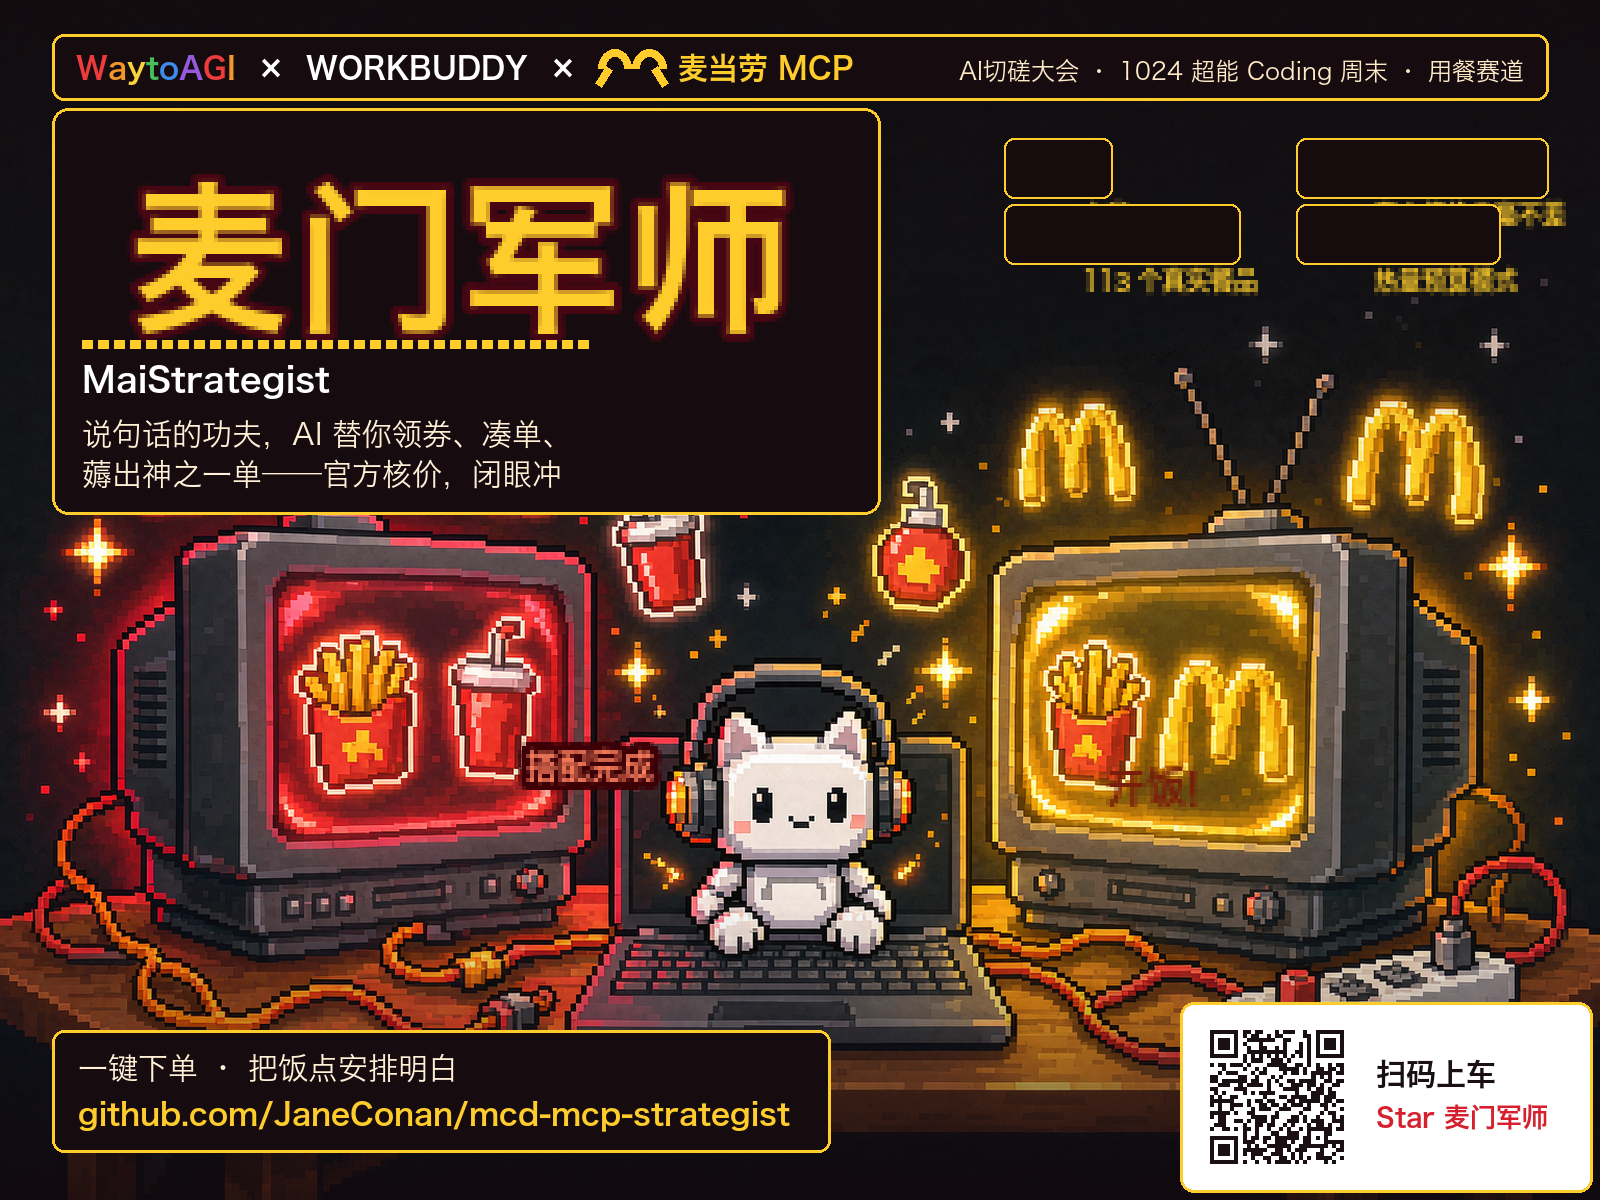
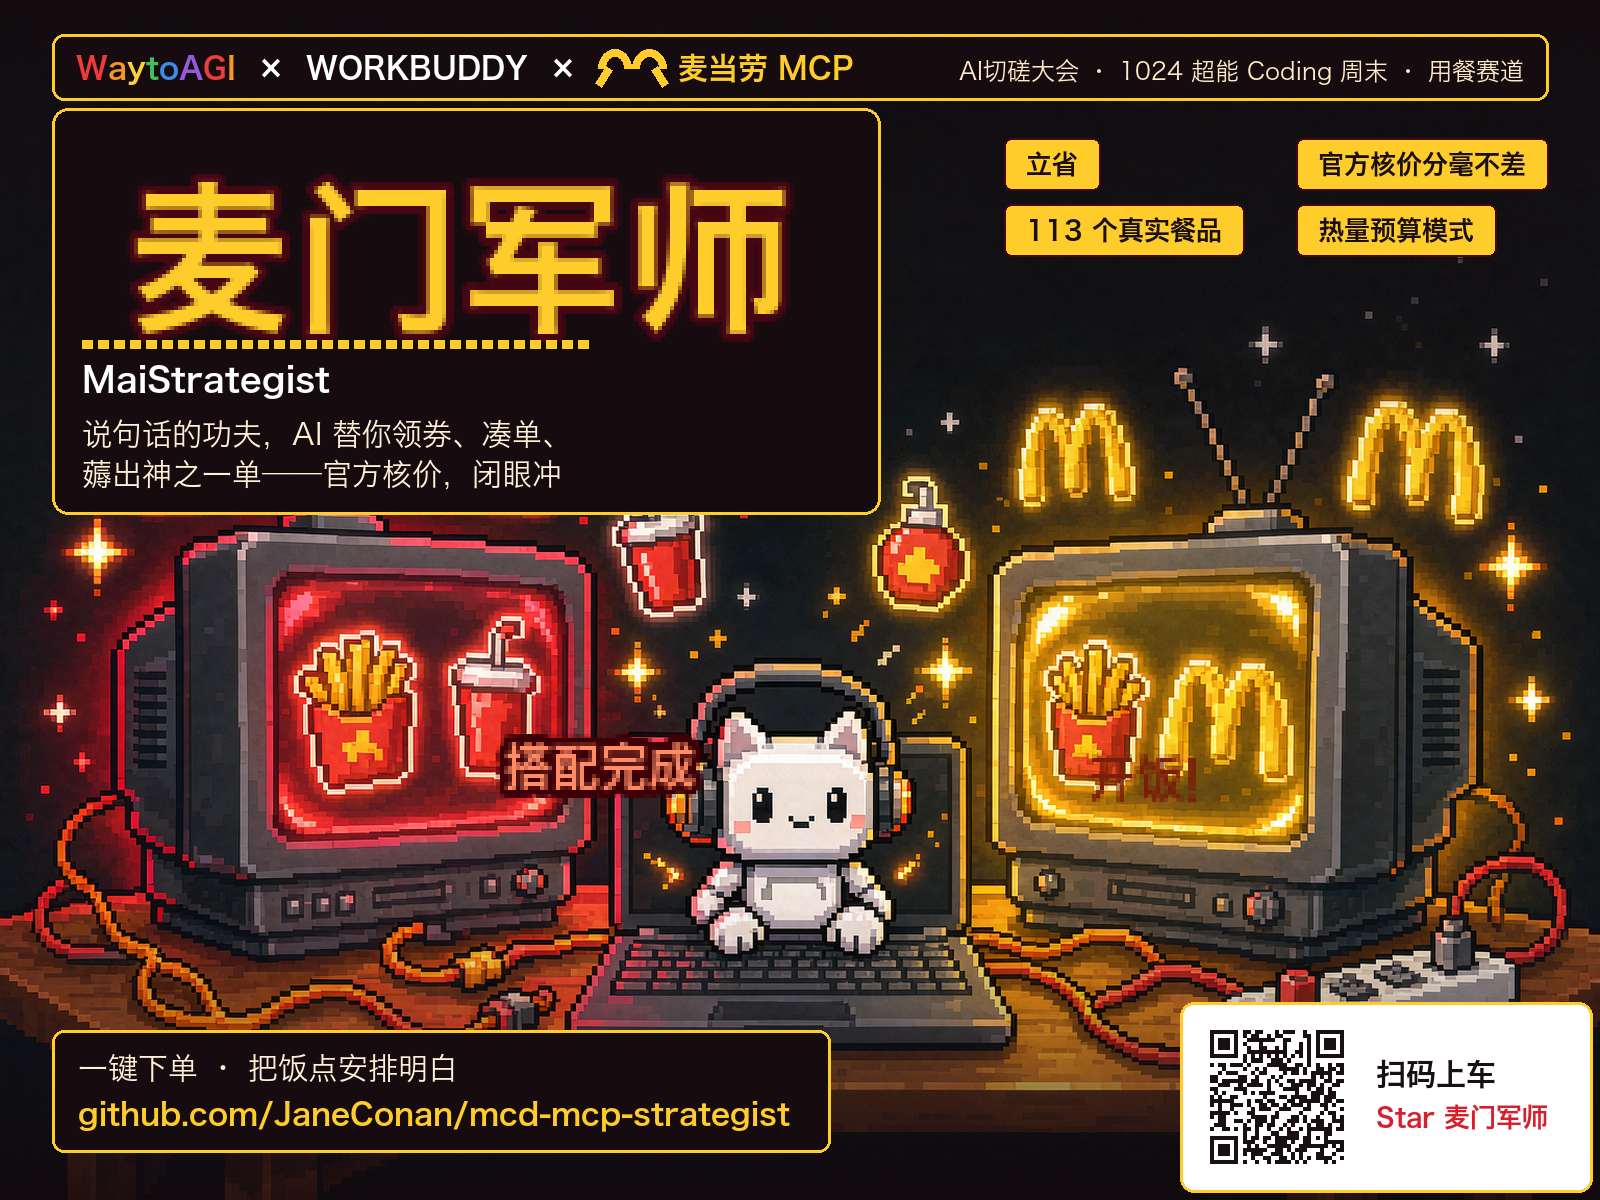
fix: 右上战绩改麦当劳黄签(金底红框+清晰粗体)——修复 6px 像素字笔画糊死
- 小字号(<=26px)禁用 NEAREST 像素字, 笔画会糊; 黄签用常规粗体
- CRT 屏幕字 34/40px 提至 48px, 保证像素笔画可分
- 溢出检测 + QR 双格式解码复验通过

diff --git a/scripts/make_cover.py b/scripts/make_cover.py
@@ -102,19 +102,16 @@ def draw_m_logo(d, x, y, s=34, color=GOLD):
            fill=color, width=wdt)
 
 
-def pixel_pill(img, x, y, text, final_size, pad_x=30, pad_y=14):
-    """深色金边 HUD 小面板 + 像素字。"""
+def stat_pill(img, x, y, text, size=26):
+    """麦当劳黄标签：金底 + 深红描边 + 墨色清晰粗体（小字号不用像素字，避免糊）。"""
     d = ImageDraw.Draw(img)
-    small = final_size // PIX
-    f = font(small, True)
-    tmp = Image.new("RGBA", (10, 10))
-    td = ImageDraw.Draw(tmp)
-    bbox = td.textbbox((0, 0), text, font=f)
+    f = font(size, True)
+    bbox = d.textbbox((0, 0), text, font=f)
     tw, th = bbox[2] - bbox[0], bbox[3] - bbox[1]
-    bw, bh = tw * PIX + pad_x * 2, th * PIX + pad_y * 2
-    d.rounded_rectangle([x, y, x + bw, y + bh], radius=10,
-                        fill=(22, 12, 14, 225), outline=(255, 205, 43, 200), width=2)
-    pixel_text(img, (x + pad_x, y + pad_y - 2), text, final_size, GOLD)
+    bw, bh = tw + 44, th + 26
+    d.rounded_rectangle([x, y, x + bw, y + bh], radius=8, fill=GOLD,
+                        outline=RED_DARK, width=2)
+    d.text((x + 22 - bbox[0], y + 13 - bbox[1]), text, font=f, fill=INK)
     return x + bw, y + bh
 
 
@@ -181,18 +178,18 @@ def main():
     d.text((82, 458), t2, font=f_tag, fill=CREAM)
     fit("标语2", d.textbbox((82, 458), t2, font=f_tag), tp)
 
-    # ============ 战绩胶囊（右上 2x2 HUD 面板） ============
+    # ============ 战绩标签（右上 2x2 麦当劳黄签） ============
     stats = ["立省", "官方核价分毫不差", "113 个真实餐品", "热量预算模式"]
     for i, t in enumerate(stats):
         col, row = i % 2, i // 2
-        ex, ey = pixel_pill(bg, 1004 + col * 292, 138 + row * 66, t, 26)
+        ex, ey = stat_pill(bg, 1004 + col * 292, 138 + row * 66, t)
         if ex > W - 8 or ey > H - 8:
-            ISSUES.append("胶囊%d 超出画布: (%d,%d)" % (i, ex, ey))
+            ISSUES.append("标签%d 超出画布: (%d,%d)" % (i, ex, ey))
 
-    # ============ CRT 屏幕叠字 ============
-    pixel_text(bg, (470, 690), "搭配完成", 34, (255, 130, 95),
+    # ============ CRT 屏幕叠字（48px 起步，保证笔画清晰） ============
+    pixel_text(bg, (448, 682), "搭配完成", 48, (255, 140, 100),
                stroke_fill=(60, 0, 6), bold=True)
-    pixel_text(bg, (1058, 715), "开饭!", 40, (120, 30, 10), bold=True)
+    pixel_text(bg, (1040, 706), "开饭!", 48, (120, 30, 10), bold=True)
 
     # ============ 面板 3：左下信息区 ============
     bp = [52, 1030, 830, 1152]
